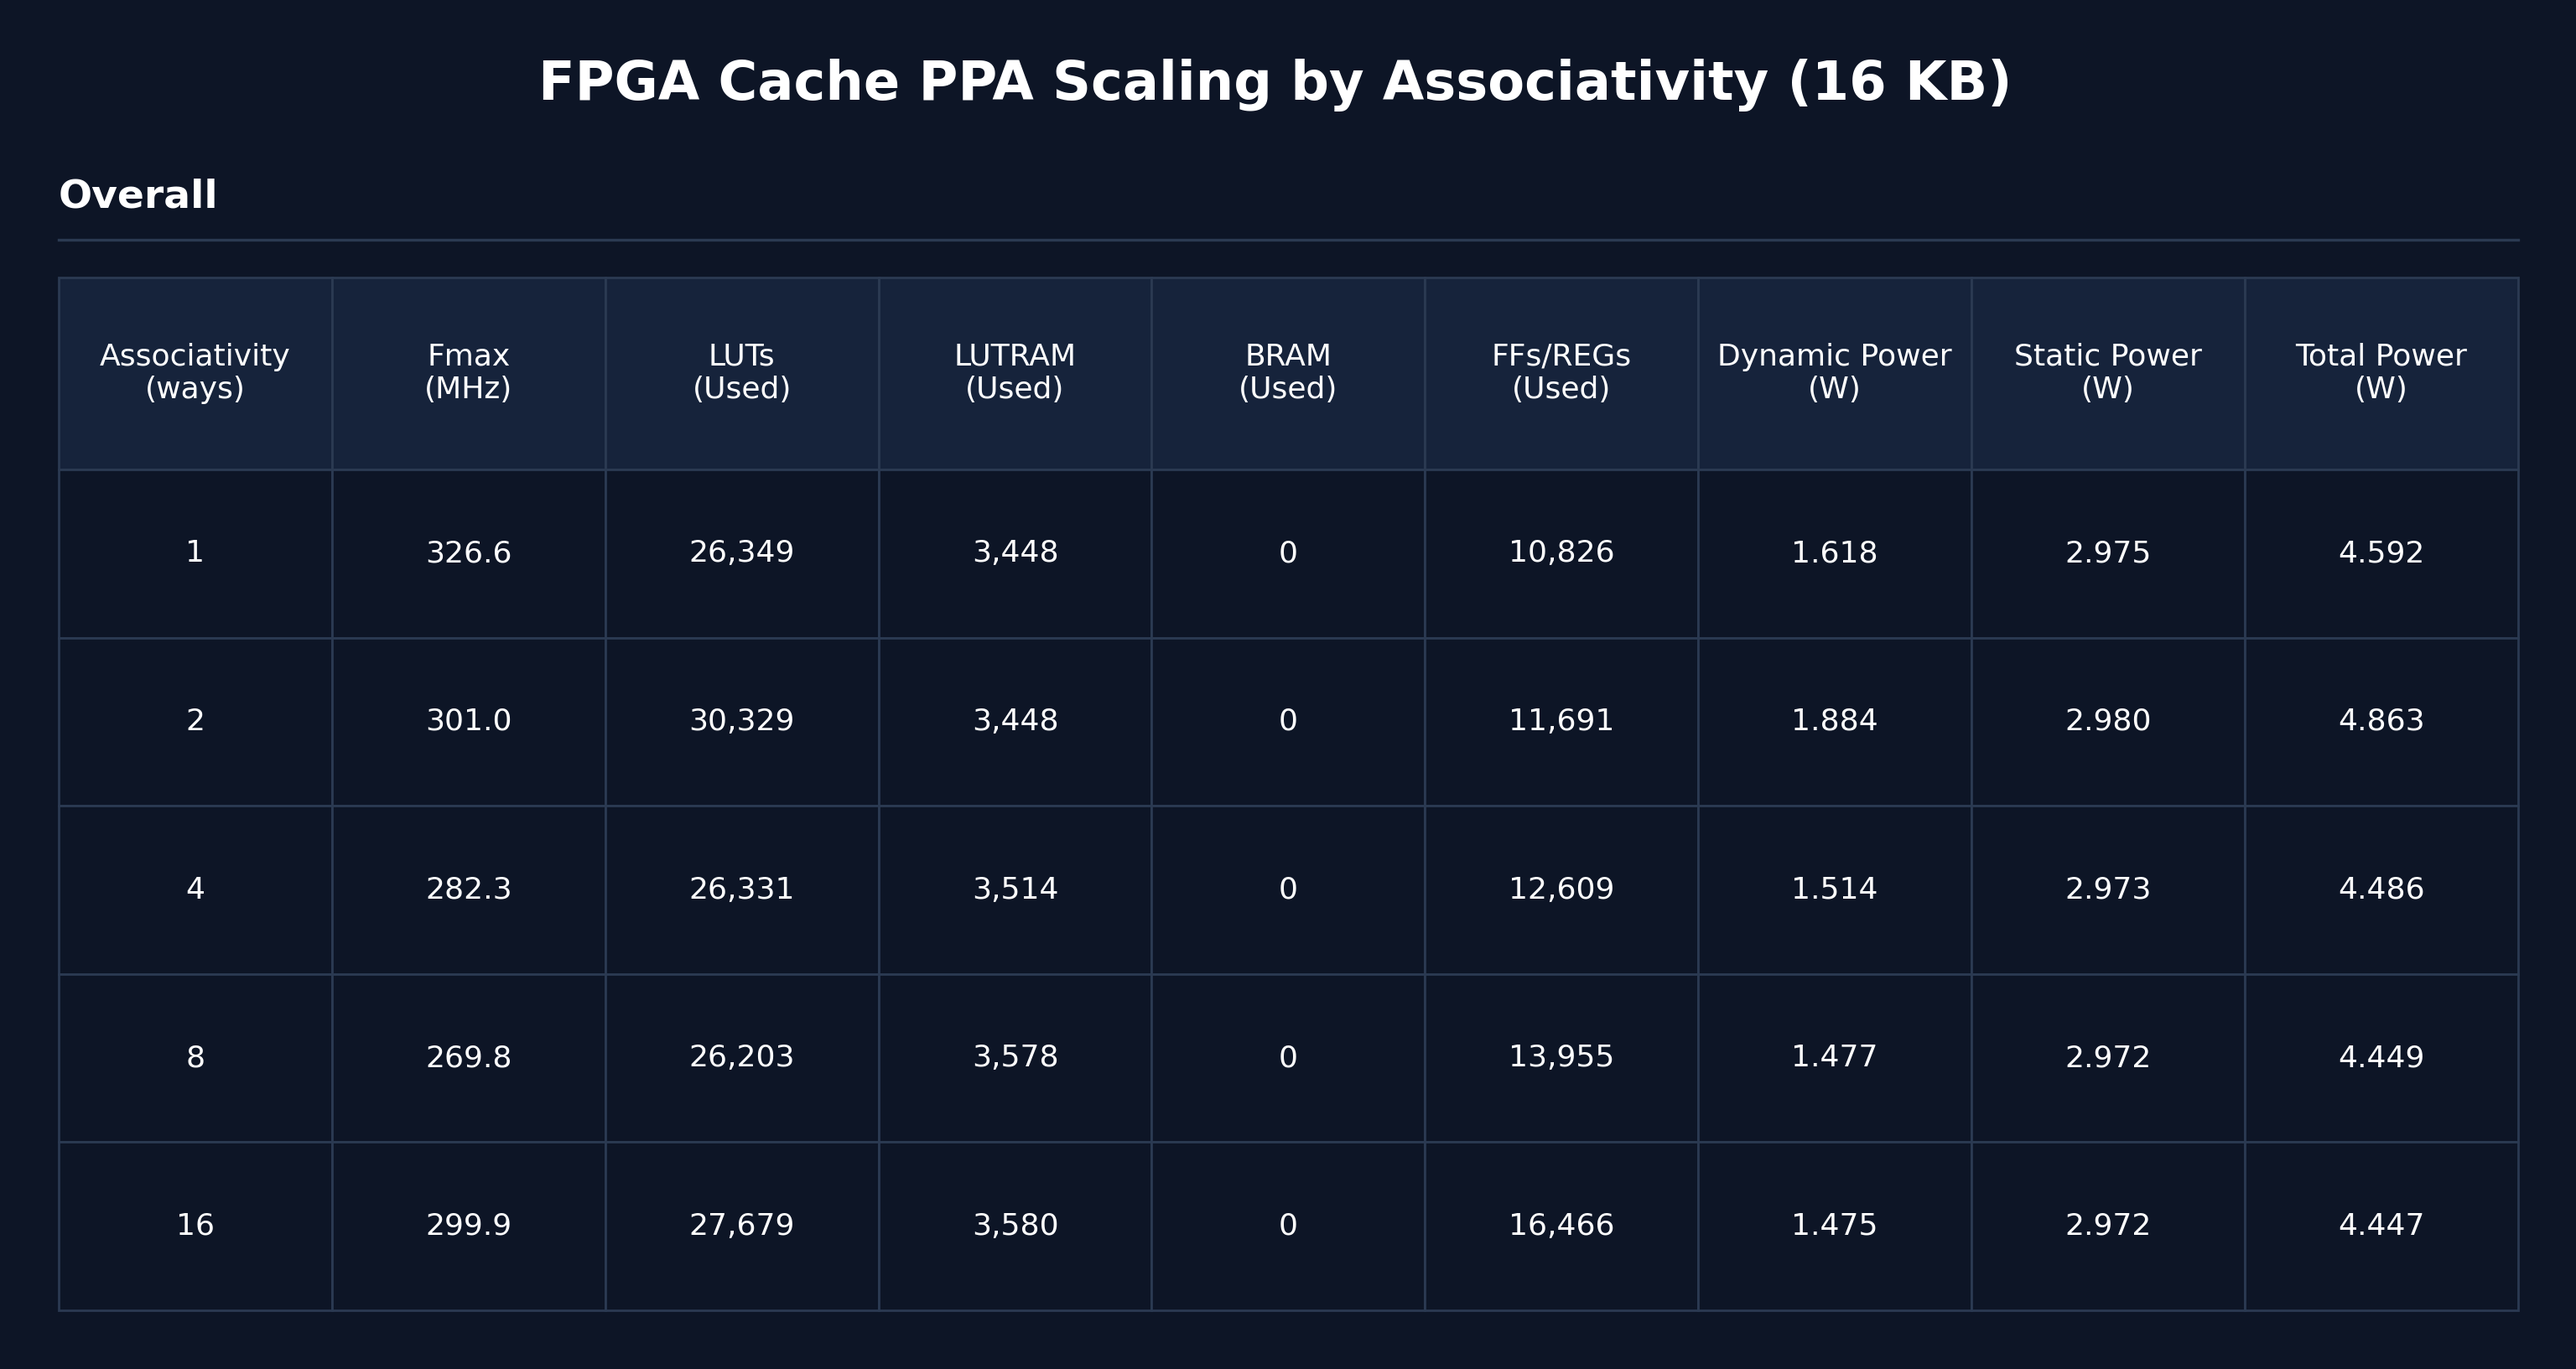
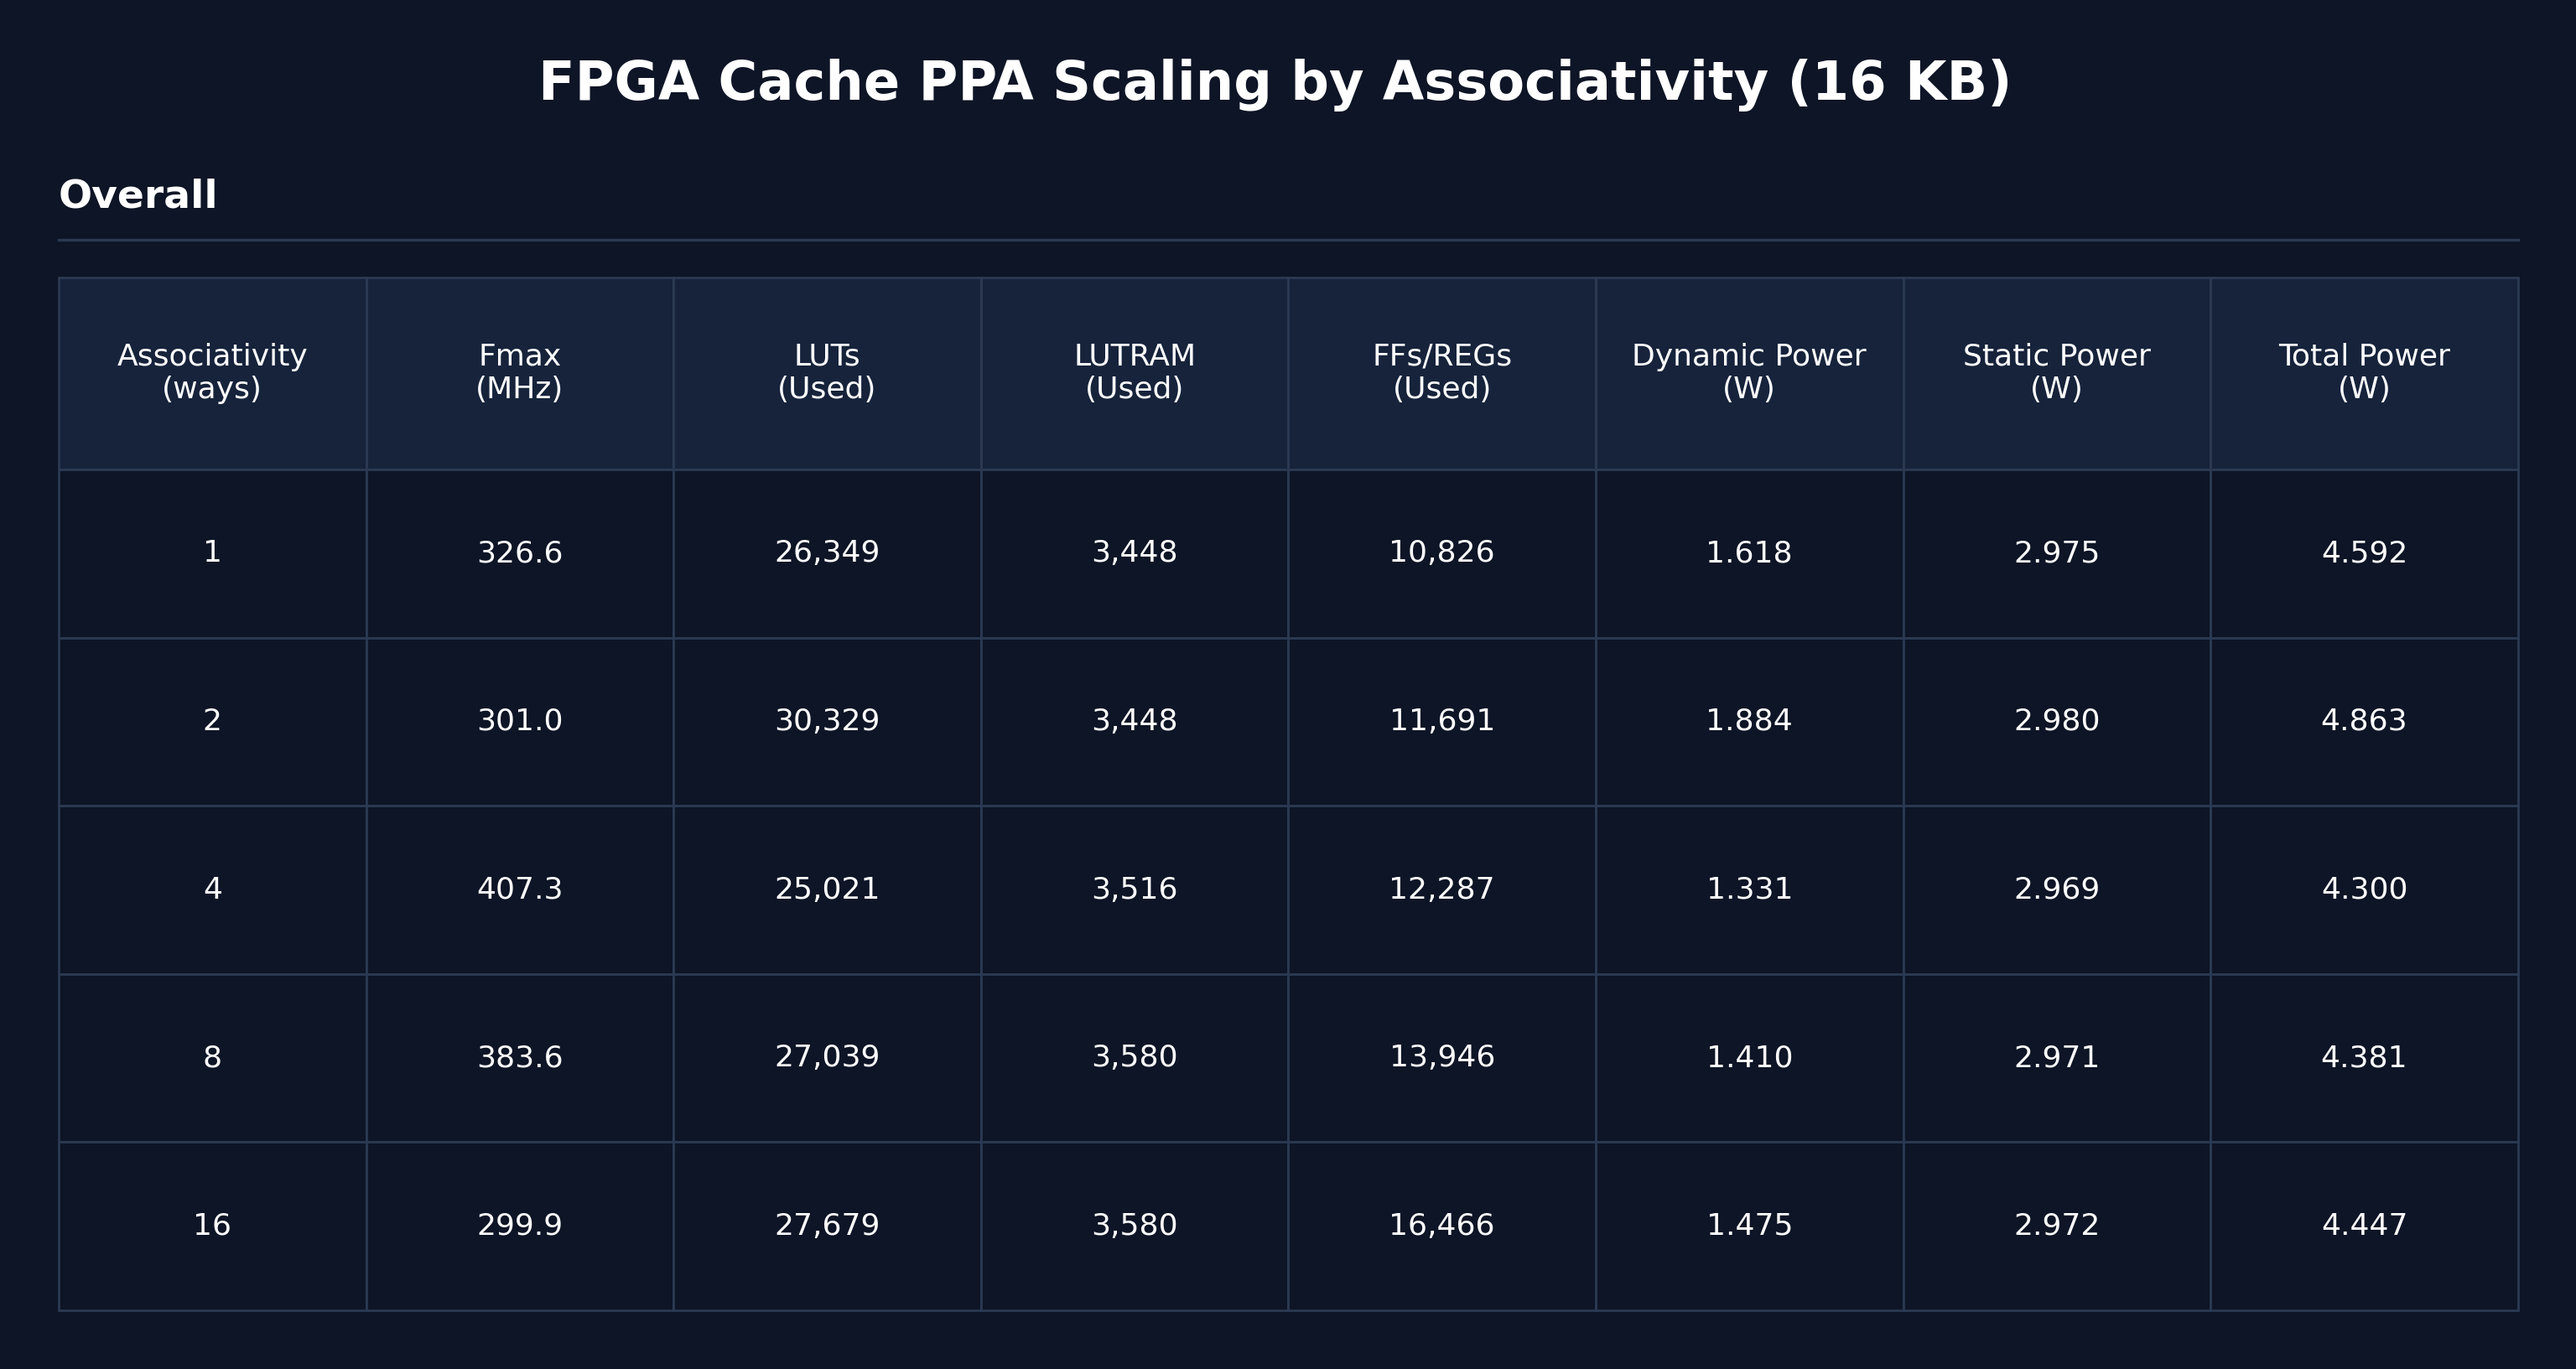
FPGA chart: drop the BRAM column (always zero, the arrays are LUTRAM/flops)
Claude-Session: https://claude.ai/code/session_013GB2gB1udYc1ALkX84Z6Vt

diff --git a/openflex/collect_ppa.py b/openflex/collect_ppa.py
@@ -130,10 +130,10 @@ def make_png(rows, path, cache_kb):
     hdr = "#16233b"
 
     cols = ["Associativity\n(ways)", "Fmax\n(MHz)", "LUTs\n(Used)", "LUTRAM\n(Used)",
-            "BRAM\n(Used)", "FFs/REGs\n(Used)",
+            "FFs/REGs\n(Used)",
             "Dynamic Power\n(W)", "Static Power\n(W)", "Total Power\n(W)"]
     cells = [[f"{r['assoc']}", f"{r['fmax']:.1f}", f"{r['lut']:,}", f"{r['lutram']:,}",
-              f"{r['bram']:,}", f"{r['reg']:,}",
+              f"{r['reg']:,}",
               f"{r.get('dynamic', 0):.3f}", f"{r.get('static', 0):.3f}",
               f"{r.get('total', 0):.3f}"] for r in rows]
 
